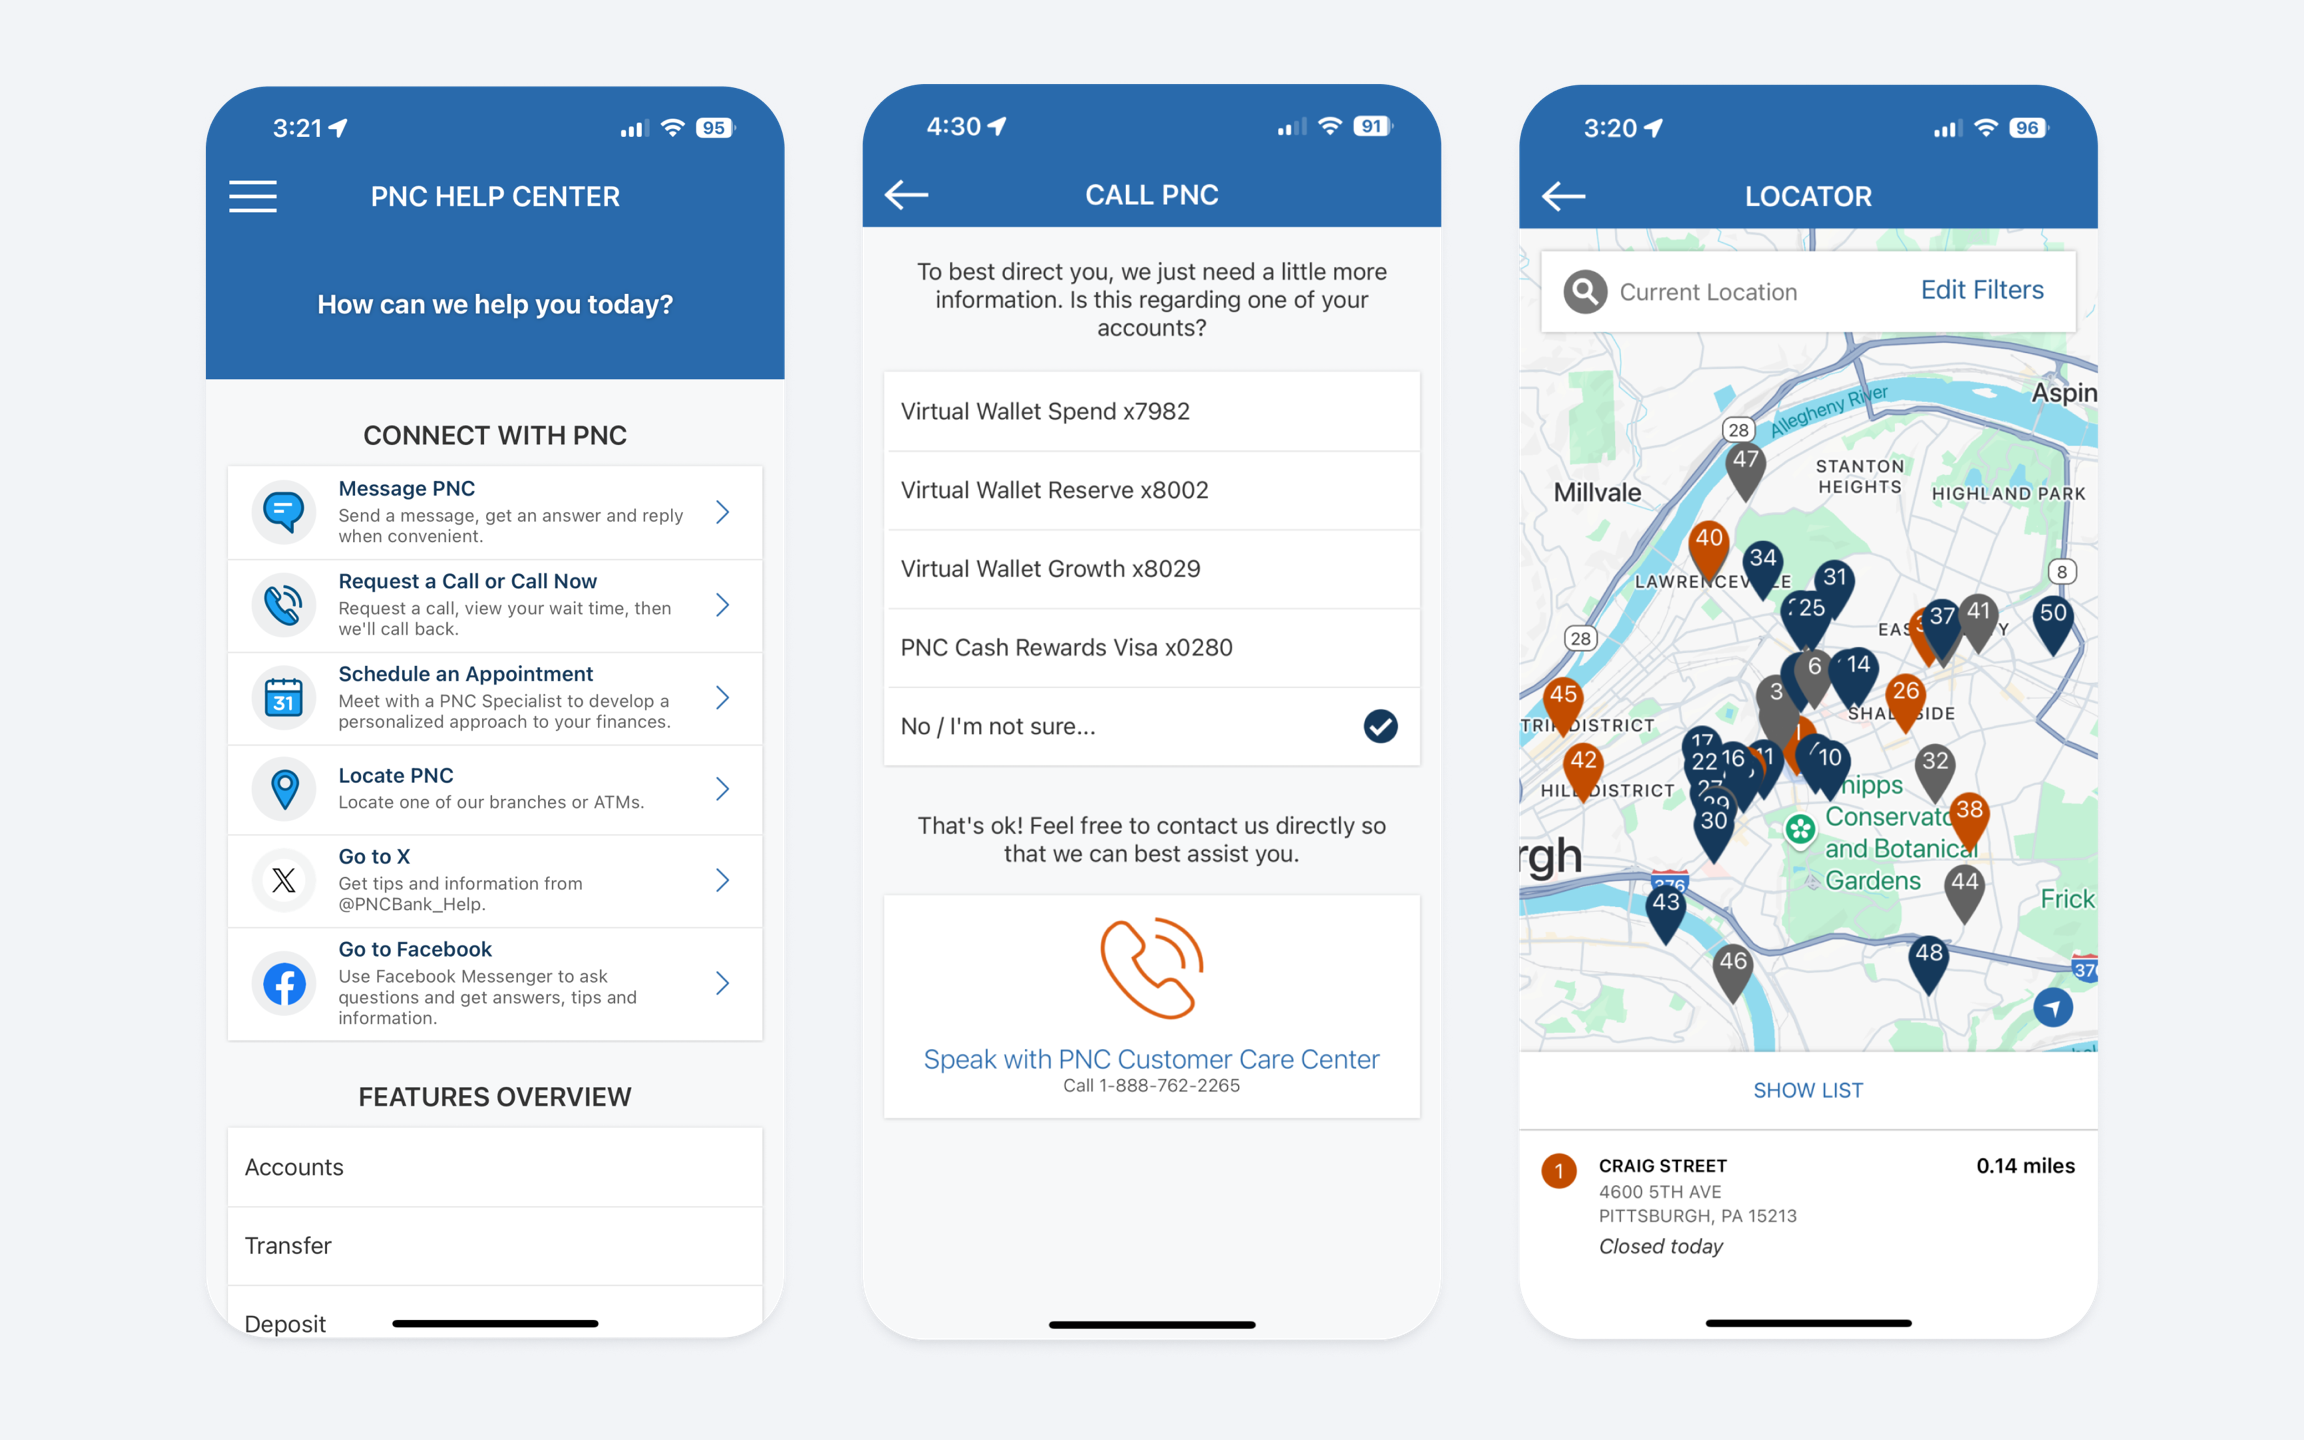
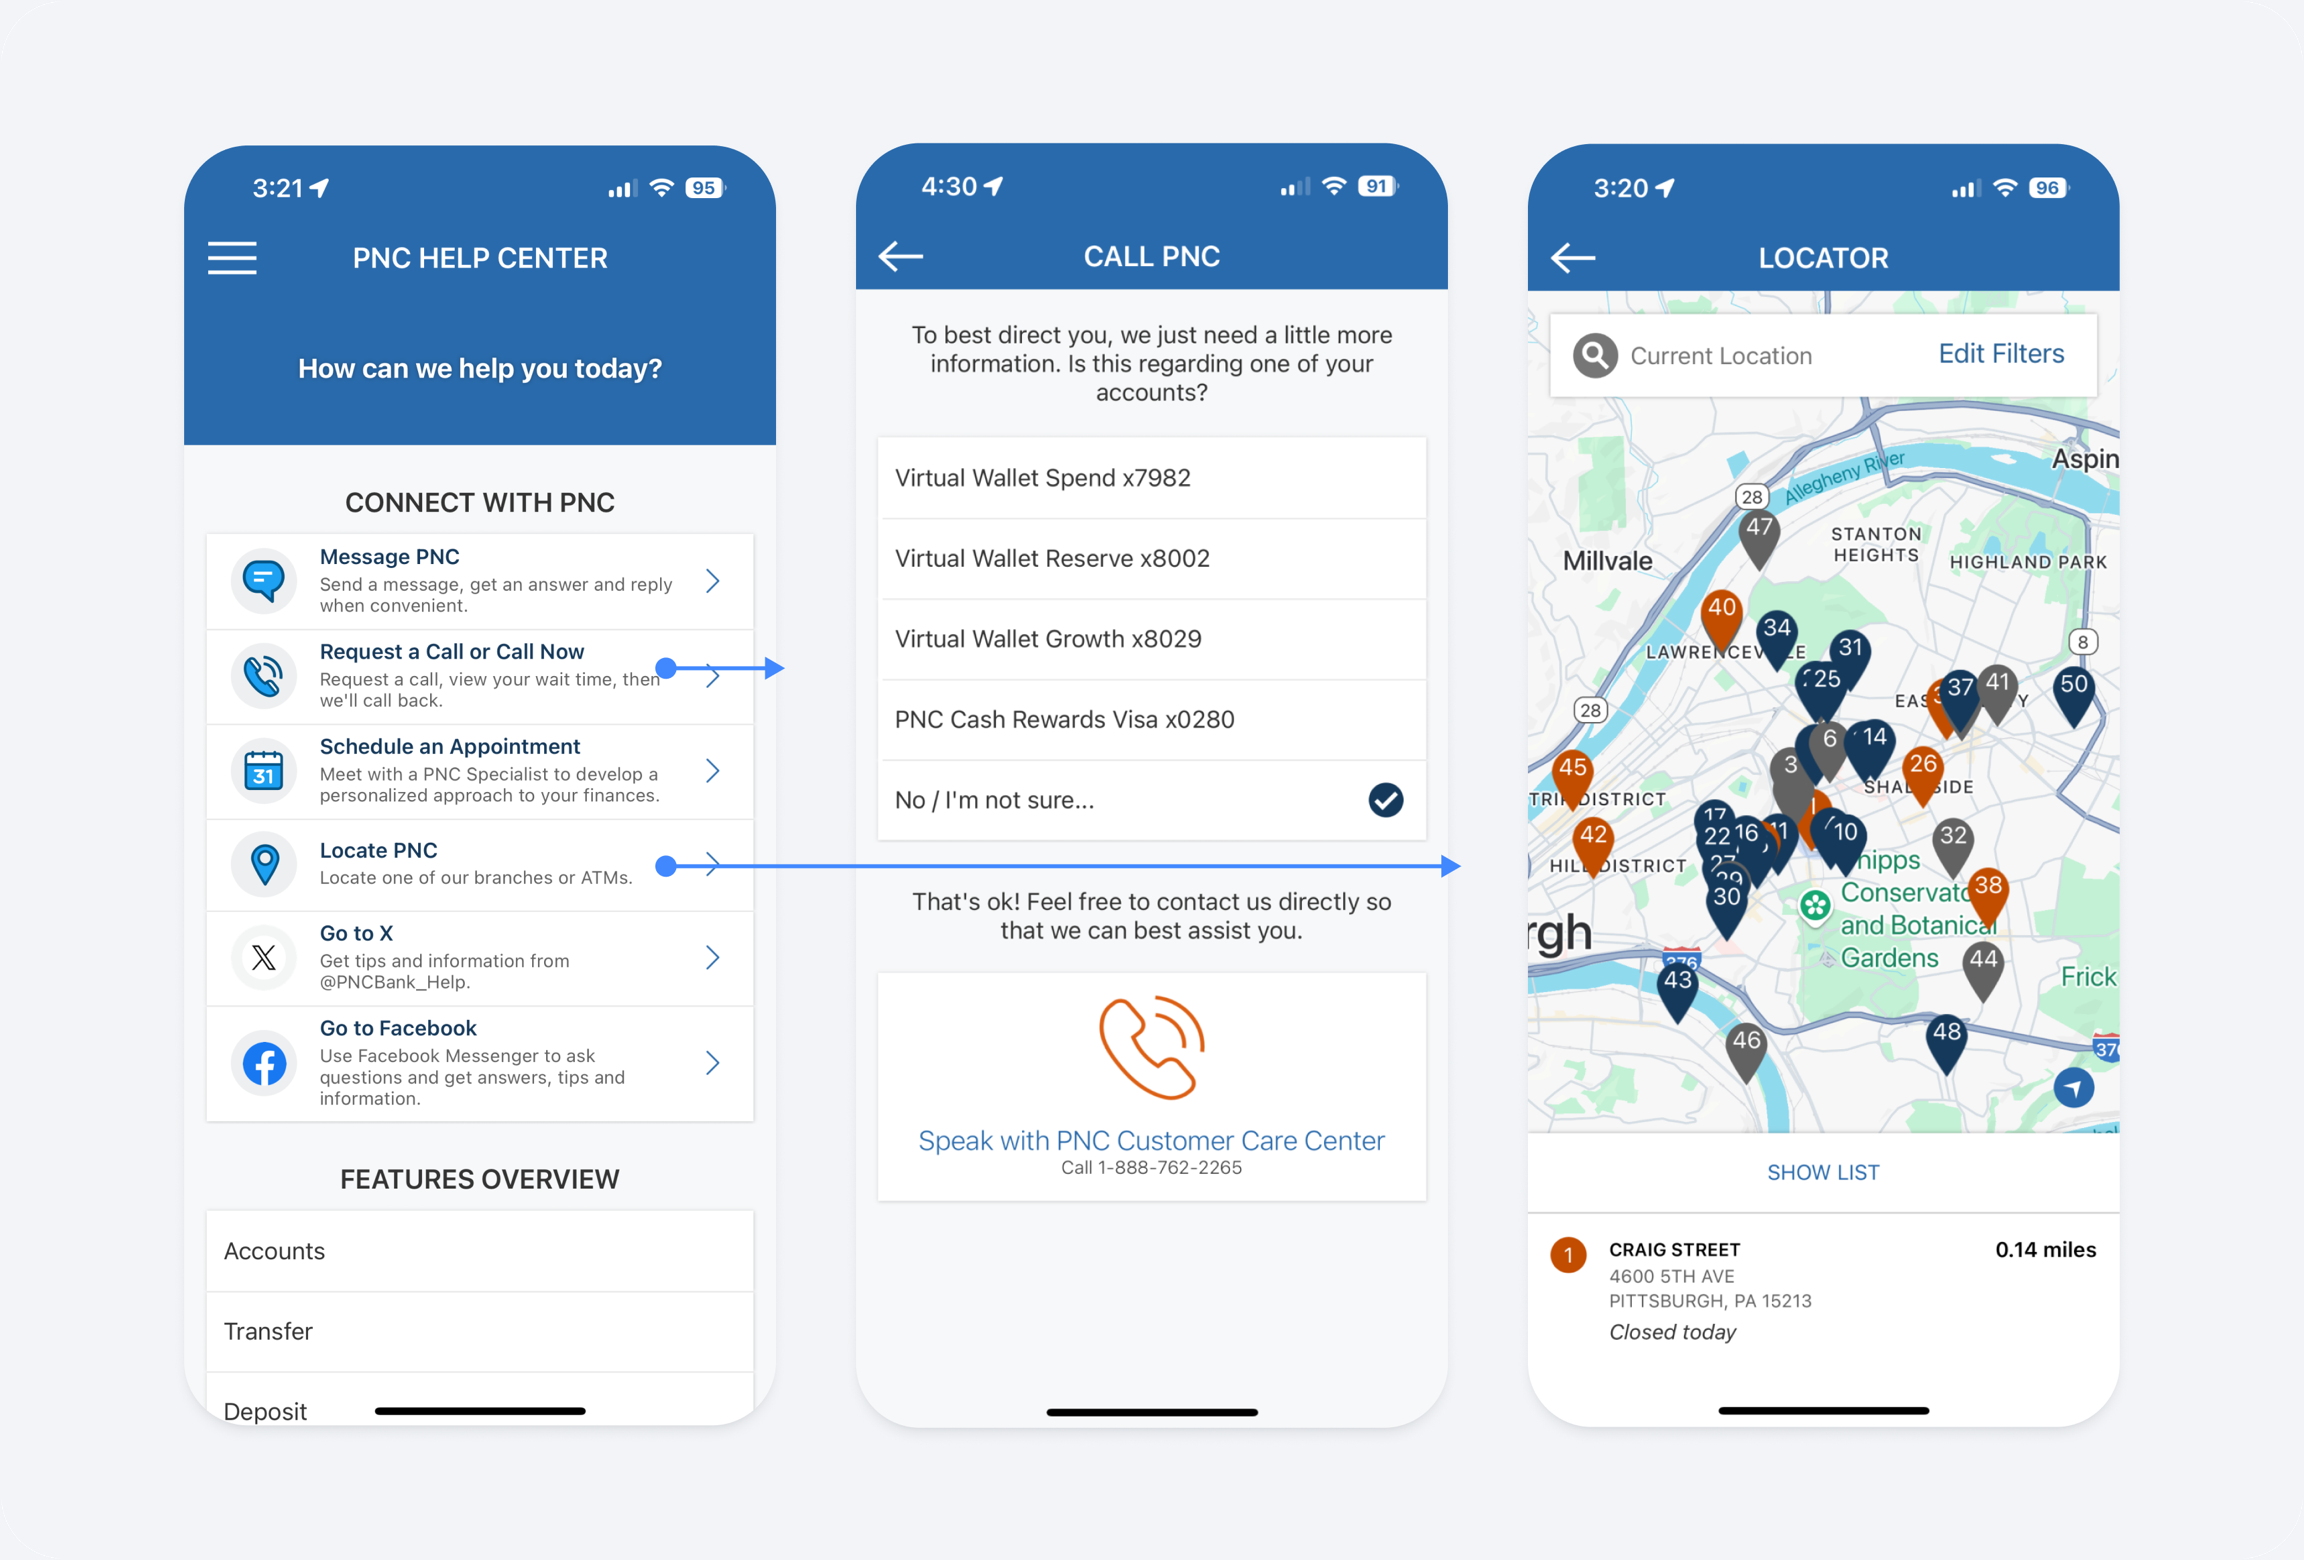
Restore the flow arrows in the Problem panel
Figma swapped image 123 for image 126 (174:5636), which puts back the arrows
tracing Request a Call -> Call PNC and Locate PNC -> Locator. The grey Pen
wrapper is also gone from the design; image 126 carries the #f2f4f7 field
itself, so no compositing was needed this time.

Source is 3456x2340, downscaled to 2304x1560 — exactly what a dpr-2 display
needs for the 1152px container, so anything larger would only add bytes. RGBA
flattened onto the same grey. Height changed 1440 -> 1560, so width/height
follow.

diff --git a/app/work/help-center-mobile-redesign/page.tsx b/app/work/help-center-mobile-redesign/page.tsx
@@ -358,14 +358,14 @@ export default function HelpCenterCaseStudy() {
             </li>
           ))}
         </ul>
-        {/* Figma 168:5617 ("image 123") centred in Pen 72:19922. Composited onto
-            the #f2f4f7 field at 2x — the source asset is 2940px wide, so this is
-            a downscale, not an upscale. */}
+        {/* Figma 174:5636 ("image 126"), which carries the #f2f4f7 field itself —
+            the grey Pen wrapper is gone from the design. Downscaled from a
+            3456px source to 2x, and the alpha flattened onto the same grey. */}
         <Image
           src="/projects/hc-problem.png"
-          alt="PNC Help Center, Call PNC and Locator screens showing the paths users take to get help"
+          alt="PNC Help Center screen with arrows tracing two paths: Request a Call to the Call PNC screen, and Locate PNC to the Locator map"
           width={2304}
-          height={1440}
+          height={1560}
           sizes="(max-width: 1200px) 100vw, 1152px"
           className="mt-2 h-auto w-full rounded-panel"
         />
